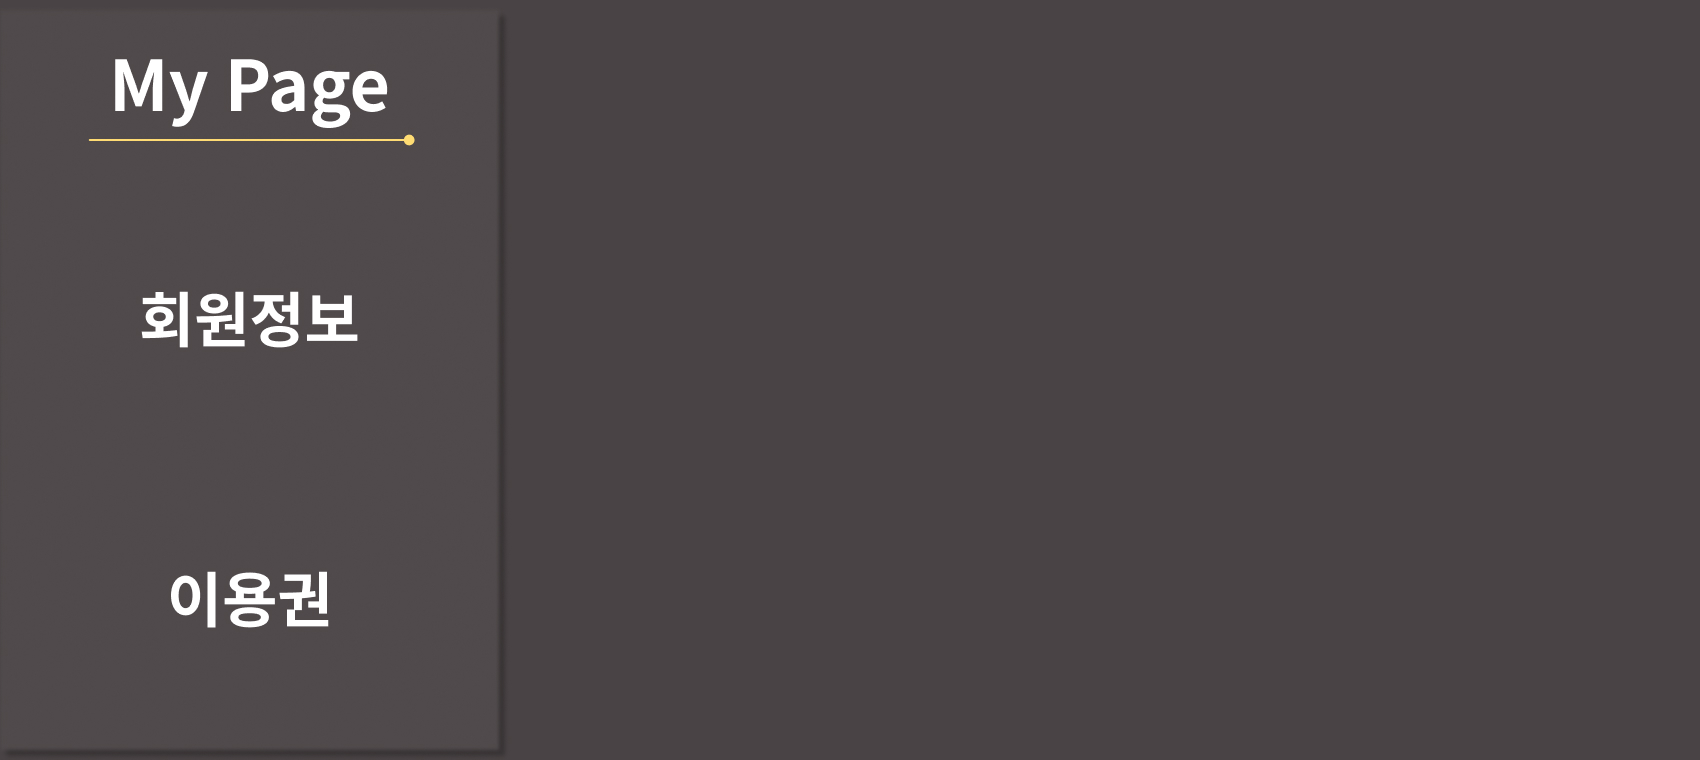
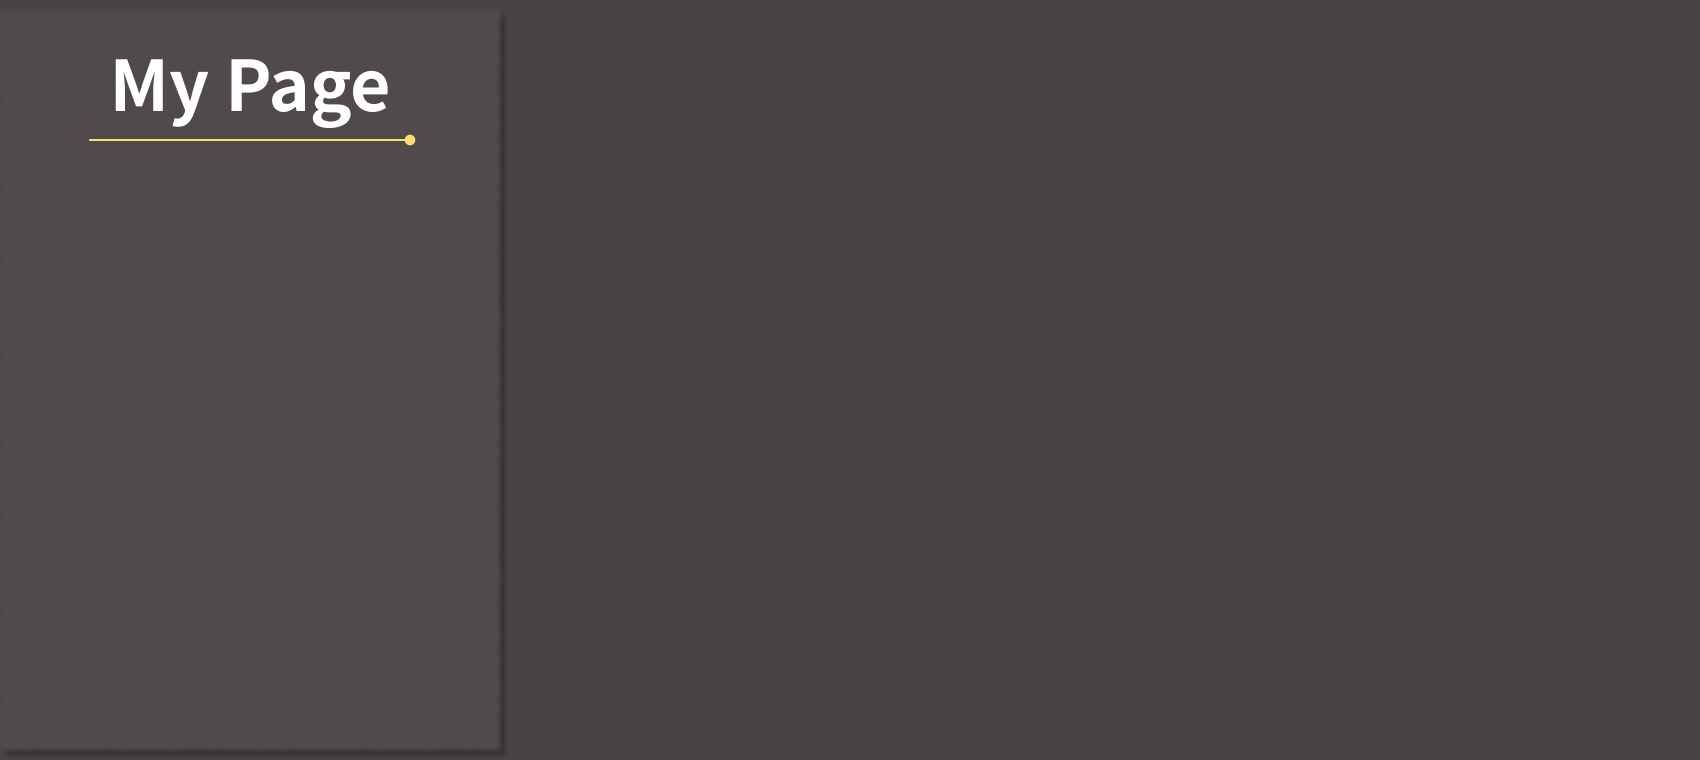
임시 커밋

Changed region(s): [[0.0624, 0.3632, 0.2182, 0.4539], [0.0935, 0.7566, 0.2182, 0.8474], [0.0624, 0.0908, 0.0935, 0.1211]]

diff --git a/src/panel/MyPagePanel.java b/src/panel/MyPagePanel.java
@@ -2,46 +2,112 @@ package panel;
 
 import java.awt.CardLayout;
 import java.awt.Color;
-import java.awt.Font;
-import java.awt.Graphics;
+import java.awt.Container;
 import java.awt.event.ActionEvent;
 import java.awt.event.ActionListener;
-import java.text.DateFormat;
-import java.text.SimpleDateFormat;
-import java.util.ArrayList;
-import java.util.List;
 
+import javax.swing.ButtonGroup;
 import javax.swing.ImageIcon;
 import javax.swing.JButton;
-import javax.swing.JLabel;
 import javax.swing.JPanel;
-import javax.swing.JSeparator;
-
-import dao.MemberDAO;
-import dto.Member;
-//import oracle.sql.DATE;
+import javax.swing.JToggleButton;
 
 public class MyPagePanel extends JPanel {
+
+	/* 레이아웃 */
+	public static CardLayout myPageCard = new CardLayout();
 	
-	JButton logoutBtn = new JButton("로그아웃");
-	JButton mainBtn = new JButton("좌석보기");
+    JButton logoutBtn = new JButton("로그아웃");
+    JButton mainBtn = new JButton("좌석보기");
+    
+    // 마이페이지 배경
+    ImageIcon myPageBg = new ImageIcon("ui/background/MyPage_BG.jpg"); 
+    
+    // 마이페이지 안쪽 
+    ImageIcon myPageContBg = new ImageIcon("ui/MyPage/MyPage_Contents.jpg"); 
+    
+    // 회원정보, 이용권미지
+    ImageIcon myPageUserInfoBg = new ImageIcon("ui/MyPage/MyPage_UserInfo_Rigth_Frame.png");
+    ImageIcon myPageUseTicketBg = new ImageIcon("ui/MyPage/MyPage_UseTicket_Rigth_Frame.png");
+    
+    /* 패널 */
+    BackgroundPanel myPagebg = new BackgroundPanel(myPageBg);
+    BackgroundPanel mpMainCont = new BackgroundPanel(myPageContBg);
+    
+    Container myPageContainer = new JPanel();
+    BackgroundPanel userInfoPanel = new BackgroundPanel(myPageUserInfoBg);
+    BackgroundPanel useTicketPanel = new BackgroundPanel(myPageUseTicketBg);
 	
+	// 회원정보 토글 버튼
+	JToggleButton userInfoToggleBtn = createToggleButton("ui/MyPage/UserInfo_Button_Empty.png",
+			"ui/MyPage/UserInfo_Button.png", 10, 190, 484, 258);
 	
-	public MyPagePanel() {
-		
-		BackgroundPanel bg = new BackgroundPanel(new ImageIcon("ui/background/MyPage_BG.jpg"));
-		setLayout(null);
-		add(bg);
-		
-		BackgroundPanel mpMainCont = new BackgroundPanel(new ImageIcon("ui/MyPage/MyPage_Contents.jpg"));
-		bg.add(mpMainCont);
-		mpMainCont.setLocation(110, 230);
-		mpMainCont.setBounds(110, 230, 1700, 760);
-		
-		
-		
-		
-	} // end of constructor
+	// 이용권 토글 버튼
+	JToggleButton useTicketToggleBtn = createToggleButton("ui/MyPage/UseTicket_Button_Empty.png",
+			"ui/MyPage/UseTicket_Button.png", 10, 470, 484, 258);
+	
+	ButtonGroup myPageTogGroup = new ButtonGroup(); // 토글버튼 그룹 지정
 	
 
-} // end of class
+    public MyPagePanel() {
+    	
+
+    	// 기본 배경 설정
+    	add(myPagebg);
+    	setLayout(null);
+
+        // MyPage 배경 설정
+    	myPagebg.add(mpMainCont);
+        mpMainCont.setBounds(110, 230, 1700, 760);
+        
+        mpMainCont.add(myPageContainer);
+        myPageContainer.setBounds(510, 10, 1190, 740);
+        myPageContainer.setBackground(new Color(0, 0, 0, 0));
+        myPageContainer.setLayout(myPageCard);
+        
+        myPageContainer.add(userInfoPanel, "UserInfomation");
+        myPageContainer.add(useTicketPanel, "UseTicket");
+        
+        
+        
+        // MyPage 토글 버튼 
+        mpMainCont.add(userInfoToggleBtn);
+        mpMainCont.add(useTicketToggleBtn);
+        
+        // MyPage 토글 그룹  
+        myPageTogGroup.add(userInfoToggleBtn);
+        myPageTogGroup.add(useTicketToggleBtn);
+        
+        
+        
+        
+    } // end of constructor 
+
+    private JToggleButton createToggleButton(String iconPathBefore, String iconPathAfter, int x, int y, int width, int height) {
+    	// 버튼 선택 전, 후 이미지 절대 경로
+        ImageIcon iconBefore = new ImageIcon(iconPathBefore);
+        ImageIcon iconAfter = new ImageIcon(iconPathAfter);
+
+        // 버튼 기본 상태 설정
+        JToggleButton toggleButton = new JToggleButton(iconBefore);
+        toggleButton.setContentAreaFilled(false);
+        toggleButton.setBorderPainted(false);
+        toggleButton.setFocusPainted(false);
+        toggleButton.setBounds(x, y, width, height);
+
+        // 버튼 클릭 시 이미지 변경 이벤트
+        toggleButton.addActionListener(new ActionListener() {
+            @Override
+            public void actionPerformed(ActionEvent e) {
+                if (toggleButton.isSelected()) {
+                    toggleButton.setIcon(iconAfter);
+                } else {
+                    toggleButton.setIcon(iconBefore);
+                }
+            }
+        });
+        
+
+        return toggleButton;
+    }
+}
